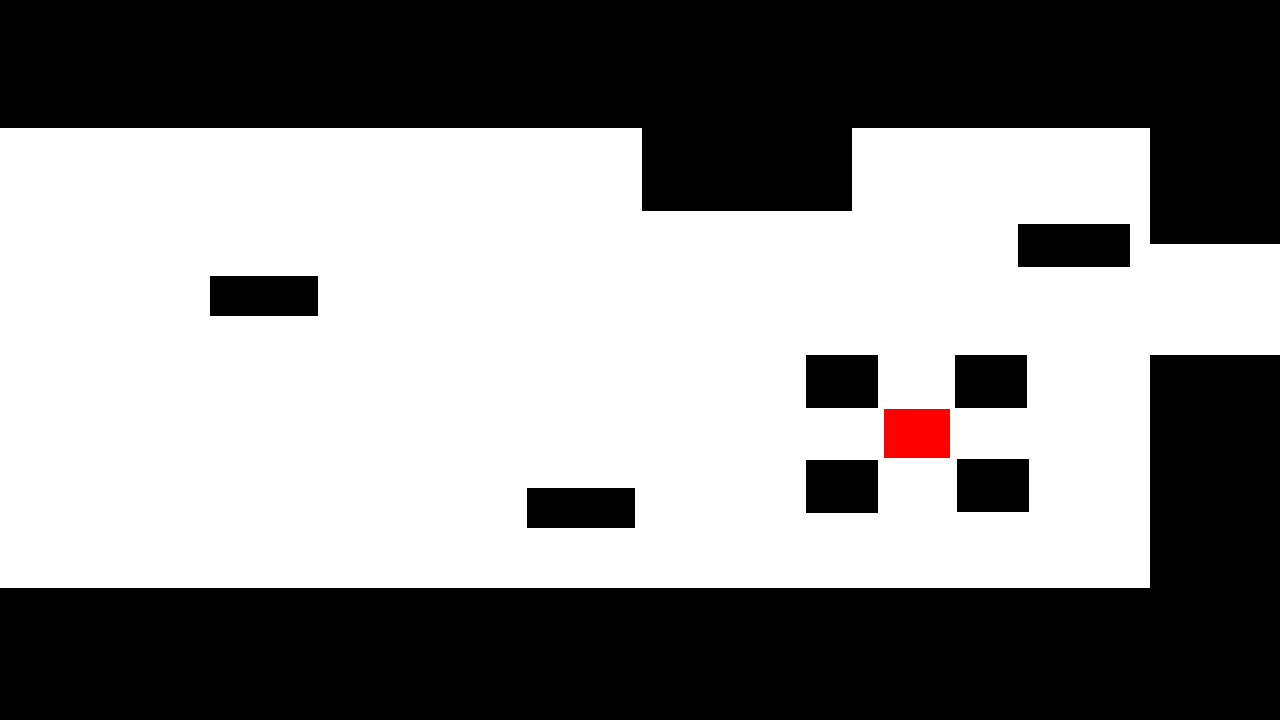
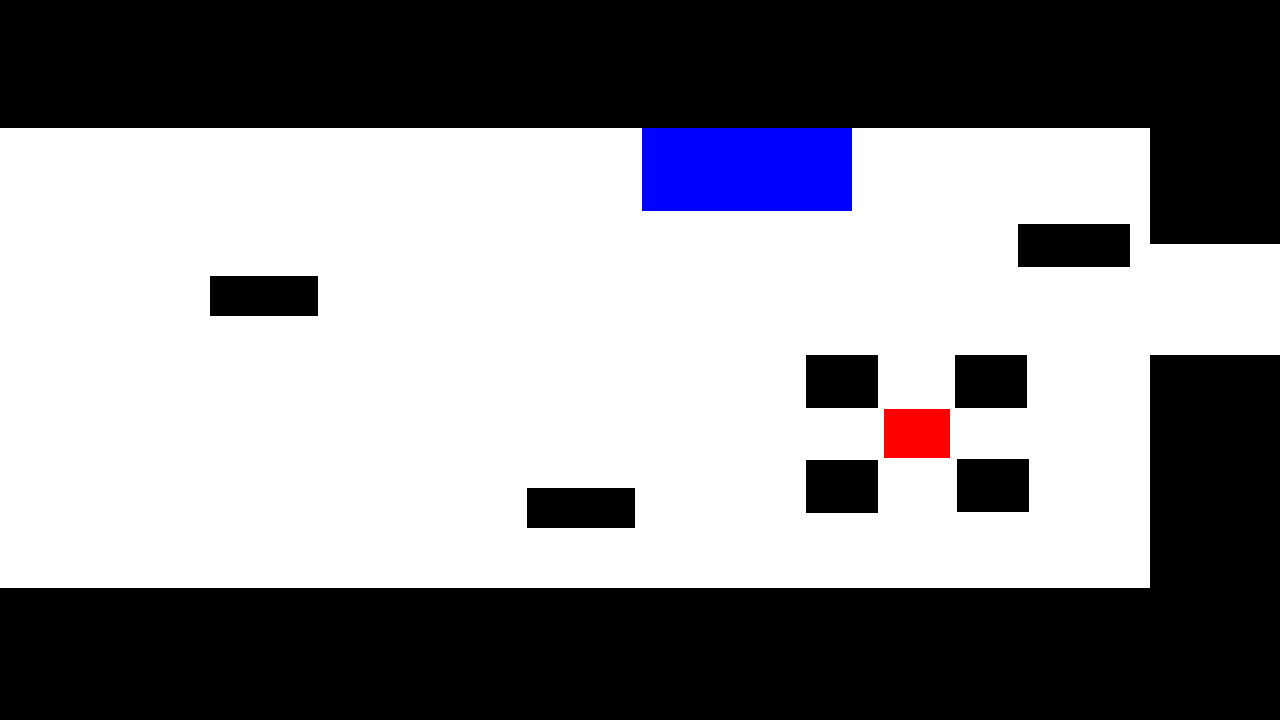
Toco e colisão com lava.

Changed region(s): [[0.5, 0.1528, 0.6875, 0.3056]]

diff --git a/src/localizacao.c b/src/localizacao.c
@@ -79,19 +79,19 @@ void inimigoAquatico(int tile, int *xAquatico, int *yAquatico, int *x, int *y, i
     xProjetil = *xAquatico+33;
 
     if(*yAquatico > *y){
-        
+
         if(t <= 24){
             al_draw_scaled_bitmap(iniAquatico[6], 0, 0, 33, 24, *xAquatico, *yAquatico, 66, 48, 0);
         }else if(t <= 48){
             al_draw_scaled_bitmap(iniAquatico[7], 0, 0, 33, 24, *xAquatico, *yAquatico, 66, 48, 0);
-        }   
+        }
 
         if(r = TEMPO_PROJETIL){
             yProjetil -= 8;
-        }            
+        }
 
     }else{
-        
+
         if(t <= 24){
             al_draw_scaled_bitmap(iniAquatico[4], 0, 0, 33, 24, *xAquatico, *yAquatico, 66, 48, 0);
         }else if(t <= 48){
@@ -120,7 +120,7 @@ void inimigoAquatico(int tile, int *xAquatico, int *yAquatico, int *x, int *y, i
     printf("%lf\n", mod);
 
     t += 1;
-    
+
     if(t > 48){
         t = 0;
     }
@@ -137,6 +137,7 @@ int ninho(tile *tileAtual, int *x, int *y,int *flagPontos,int *flagEvolucao){
     if(tileAtual->ID == 17 && *flagPontos == 3){
         ALLEGRO_COLOR vermelho = al_map_rgb(255, 0, 0);
         ALLEGRO_COLOR corJogador = al_get_pixel(tileAtual->colisao, *x + 33, *y + 33);
+
         if(memcmp(&vermelho, &corJogador, sizeof(ALLEGRO_COLOR)) == 0){
             ALLEGRO_BITMAP *tranEra = al_load_bitmap("../res/images/transEra.png");
             fade();
@@ -173,8 +174,8 @@ void movimentacaoInimigos(int tile, int *xInimigo, int *yInimigo, int *x, int *y
     static int t, i;
     double mod, A, B;
     ALLEGRO_BITMAP *iniTerrestre[8];
-    
-    
+
+
     iniTerrestre[0] = al_load_bitmap("../res/images/terrestre/baixo.png");
     iniTerrestre[1] = al_load_bitmap("../res/images/terrestre/baixo2.png");
     iniTerrestre[2] = al_load_bitmap("../res/images/terrestre/cima.png");
@@ -302,10 +303,8 @@ void colisao(tile *tileAtual, int *x, int *y, int id, int *flagVida){
     }
 
     cores[0] = preto;
-    cores[1] = vermelho;
-    cores[2] = amarelo;
-    cores[3] = azul;
-    cores[4] = rosa;
+    cores[1] = amarelo;
+    cores[2] = azul;
 
     for(int i = 0; i < 5; i++){
       if(memcmp(&cores[i], &corJogador, sizeof(ALLEGRO_COLOR)) == 0){
@@ -325,7 +324,7 @@ void colisao(tile *tileAtual, int *x, int *y, int id, int *flagVida){
             }
             printf("O jogador não anda.\n");
             break;
-          case 2:            
+          case 1:
             //Se interagir, árvore vai ser derrubada.
             fade();
             tileAtual->cima->imagem = al_load_bitmap("../res/images/tiles/Tile-E9A.png");
@@ -346,7 +345,7 @@ void colisao(tile *tileAtual, int *x, int *y, int id, int *flagVida){
               *x += 5;
             printf("O jogador derrubou a árvore.\n");
             break;
-          case 3:
+          case 2:
             *flagVida--;
             printf("O jogador recebe dano.\n");
             break;
